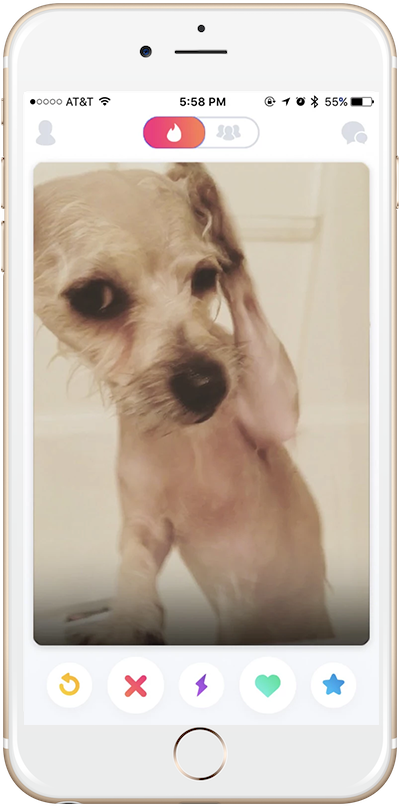
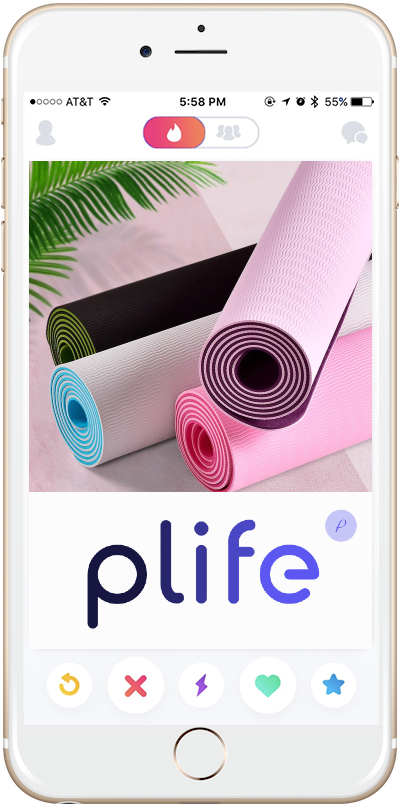
new design

diff --git a/index.html b/index.html
@@ -3,7 +3,7 @@
 
 <head>
   <meta charset="utf-8">
-  <title>TinDog</title>
+  <title>PLIFE</title>
 
 <!-- Google Font -->
 <link href="https://fonts.googleapis.com/css?family=Montserrat|Ubuntu&display=swap" rel="stylesheet">
@@ -33,7 +33,7 @@
 
     <nav class="navbar navbar-expand-lg navbar-dark">
 
-       <a class="navbar-brand" href="">tindog</a>
+       <a class="navbar-brand" href="">PLIFE</a>
 
        <button class="navbar-toggler" type="button" data-toggle="collapse" data-target="#navbarTogglerDemo02">
             <span class="navbar-toggler-icon"></span>
@@ -62,7 +62,7 @@
     <div class="row">
 
     <div class="col-lg-6">
-      <h1 class="big-heading">Meet new and interesting dogs nearby.</h1>
+      <h1 class="big-heading">Find amazing workouts plans for you and your friends!</h1>
       <button type="button" class="btn btn-dark btn-lg download-button"><i class="fab fa-apple"></i> Download</button>
       <button type="button" class="btn btn-outline-light btn-lg"><i class="fab fa-google-play"></i> Download</button>
 
@@ -95,13 +95,13 @@
       <div class="feature-box col-lg-4">
          <i class="icon fas fa-bullseye fa-4x"></i>
         <h3 class="feature-title">Elite Clientele</h3>
-        <p>We have all the dogs, the greatest dogs.</p>
+        <p>We have all the workouts, the greatest instructors.</p>
       </div>
 
       <div class="feature-box col-lg-4">
         <i class=" icon   fas fa-heart fa-4x"></i>
         <h3 class="feature-title"> Guaranteed to work.</h3>
-        <p>Find the love of your dog's life or your money back.</p>
+        <p>Find the love of your workout life or your money back.</p>
       </div>
     </div>
 
@@ -116,12 +116,12 @@
     <div id="testimonial-carousel" class="carousel slide" data-ride="false">
   <div class="carousel-inner">
     <div class="carousel-item active container-fluid">
-      <h2 class="testimonial-text">I no longer have to sniff other dogs for love. I've found the hottest Corgi on TinDog. Woof.</h2>
-      <img class="testimonial-image" src="images/dog-img.jpg" alt="dog-profile">
-      <em>Pebbles, New York</em>
+      <h2 class="testimonial-text">I no longer have to leave the comfort of my home for pilates. I've found an amazing workout on PLIFE. </h2>
+      <img class="testimonial-image" src="images/lady0-img.jpg" alt="dog-profile">
+      <em>Rebecca, New York</em>
     </div>
     <div class="carousel-item container-fluid">
-      <h2 class="testimonial-text">My dog used to be so lonely, but with TinDog's help, they've found the love of their life. I think.</h2>
+      <h2 class="testimonial-text">I used to be so lonely, but with PLIFE's help, I can find others to workout with me.</h2>
       <img class="testimonial-image" src="images/lady-img.jpg" alt="lady-profile">
       <em>Beverly, Illinois</em>
     </div>
@@ -153,15 +153,15 @@
 
   <section  class="white-section"id="pricing">
 
-    <h2 class="section-heading">A Plan for Every Dog's Needs</h2>
-    <p>Simple and affordable price plans for your and your dog.</p>
+    <h2 class="section-heading">A Plan for Everyone's Needs</h2>
+    <p>Simple and affordable price plans for you</p>
 
 <div class="row">
 
   <div class="pricing-column col-lg-4 col-md-6">
     <div class="card">
       <div class="card-header">
-          <h3>Chihuahua</h3>
+          <h3>Beginner</h3>
       </div>
       <div class="card-body">
         <h2 class="price-text">Free</h2>
@@ -176,7 +176,7 @@
 <div class=" pricing-column col-lg-4 col-md-6">
   <div class="card">
     <div class="card-header">
-      <h3>Labrador</h3>
+      <h3>Intermediate</h3>
     </div>
     <div class="card-body">
       <h2 class="price-text">$49 / mo</h2>
@@ -191,7 +191,7 @@
 <div class=" pricing-column col-lg-4">
   <div class="card">
     <div class="card-header">
-        <h3>Mastiff</h3>
+        <h3>Master</h3>
     </div>
     <div class="card-body">
       <h2 class="price-text">$99 / mo</h2>
@@ -213,7 +213,7 @@
   <section  class="colored-section" id="cta">
 
 <div class="container-fluid">
-    <h3 class="cta-heading">Find the True Love of Your Dog's Life Today.</h3>
+    <h3 class="cta-heading">Find Your Workout Plan Today!</h3>
     <button class="download-button btn btn-lg btn-dark" type="button"><i class="fab fa-apple"></i>Download</button>
     <button class="download-button btn btn-lg btn-light" type="button"><i class="fab fa-google-play"></i>Download</button>
 </div>
@@ -228,7 +228,7 @@
     <i class="social-icon fab fa-twitter"></i>
     <i class="social-icon fab fa-instagram"></i>
     <i class="social-icon fas fa-envelope"></i>
-    <p>© Copyright 2018 TinDog</p>
+    <p>© Copyright 2020 PLIFE</p>
 </div>
   </footer>
 

diff --git a/css/styles.css b/css/styles.css
@@ -38,7 +38,7 @@ p{
 /* Sections */
 
 .colored-section{
-  background-color: #ff4c68;
+  background-color: #5453f4;
   color: #fff;
 }
 
@@ -108,18 +108,18 @@ p{
 }
 
 .icon{
-  color: #ef8172;
+  color: #8a98f5;
   margin-bottom: 1rem;
 }
 
 .icon:hover{
-  color: #ff4c68;
+  color: #5453f4;
 }
 
 /* Testimonals */
 
 #testimonials{
-  background-color: #ef8172;
+  background-color: #6f75f4;
 
 }
 
@@ -138,7 +138,7 @@ p{
 
 
 #press{
-  background-color: #ef8172;
+  background-color: #6f75f4;
   padding-bottom: 3%;
 }
 
